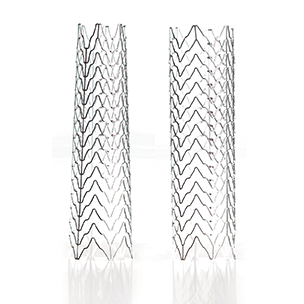
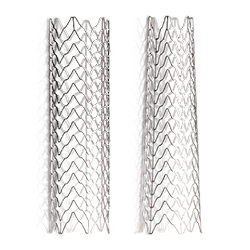
Use consistent Abbott family-style product images across all 6 cards

Changed region(s): [[0.168, 0.056, 0.448, 0.952], [0.532, 0.056, 0.812, 1.0]]

diff --git a/_projects/4_emboshield_nav6.md b/_projects/4_emboshield_nav6.md
@@ -2,7 +2,7 @@
 layout: page
 title: Emboshield NAV6 Embolic Protection System
 description: A distal embolic filter used as a guide wire and protection system to capture debris during carotid stenting and lower-extremity atherectomy.
-img: assets/img/products/emboshield.jpg
+img: assets/img/products/emboshield.png
 importance: 4
 category: work
 ---